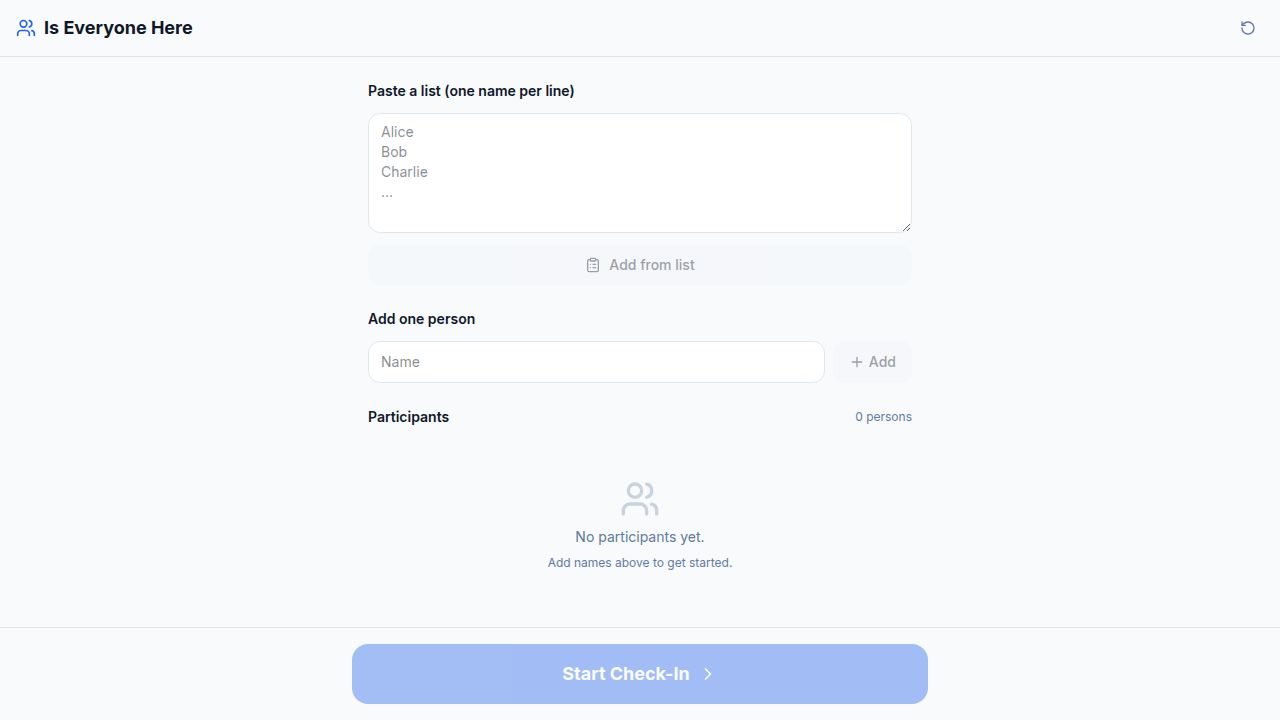
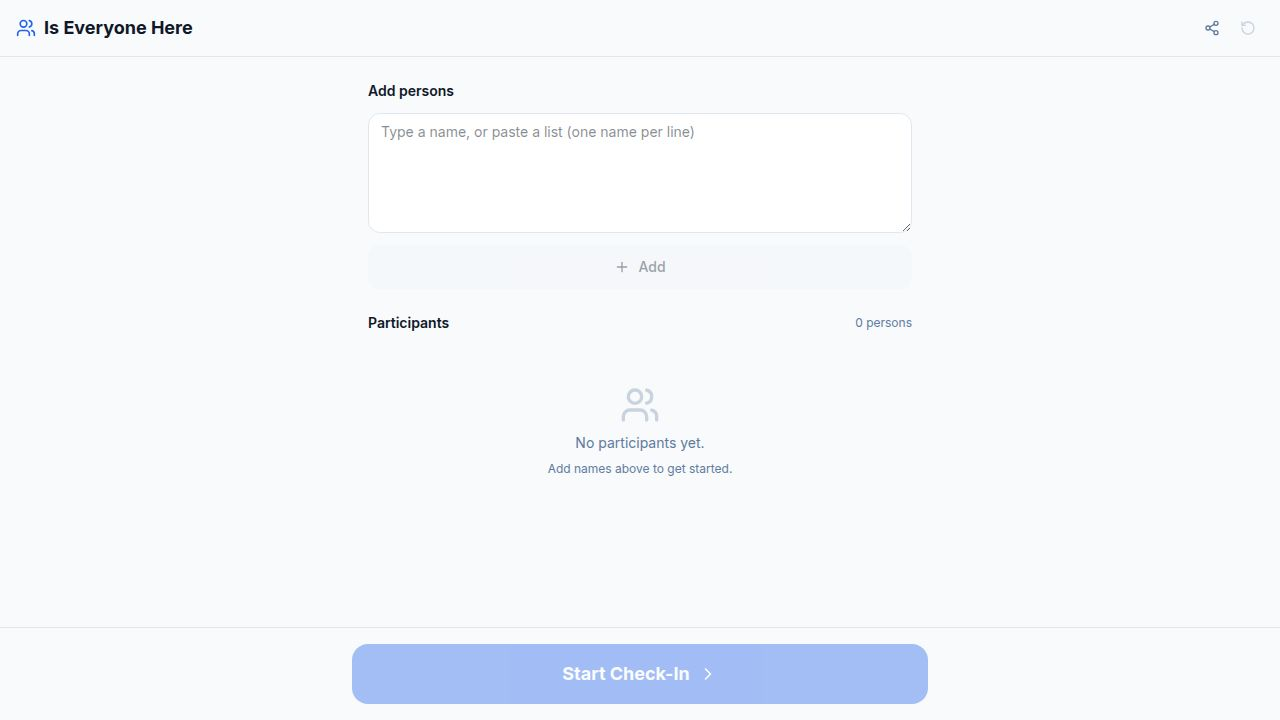
Add share functionality and improve user experience during check-in
Introduce a share button for easy state sharing via URL or native share sheet. Enhance the check-in process by automatically advancing to the checkout view after the last person is marked, and display a non-intrusive message when duplicate names are added.

Replit-Commit-Author: Agent
Replit-Commit-Session-Id: cf08d28a-9c5e-4f8a-a3a1-c976aa2075b8
Replit-Commit-Checkpoint-Type: full_checkpoint
Replit-Commit-Event-Id: dedc5300-f547-4629-b885-a67ef2440dd4
Replit-Commit-Screenshot-Url: https://storage.googleapis.com/screenshot-production-us-central1/a26471ca-6ae7-45f9-a4b1-f9d4ba0b369f/cf08d28a-9c5e-4f8a-a3a1-c976aa2075b8/bTtyVXO
Replit-Helium-Checkpoint-Created: true

diff --git a/artifacts/is-everyone-here/src/pages/CheckinPage.tsx b/artifacts/is-everyone-here/src/pages/CheckinPage.tsx
@@ -1,7 +1,8 @@
-import { CheckCircle2, XCircle, ChevronLeft, ChevronRight, Settings, ArrowRight } from "lucide-react";
+import { CheckCircle2, XCircle, ChevronLeft, ChevronRight, Settings } from "lucide-react";
 import { AppState, PersonStatus } from "@/lib/state";
 import { Translations } from "@/lib/i18n";
 import ResetButton from "@/components/ResetButton";
+import ShareButton from "@/components/ShareButton";
 
 interface Props {
   state: AppState;
@@ -14,12 +15,16 @@ export default function CheckinPage({ state, t, onStateChange }: Props) {
   const current = people[currentIndex];
   const prev = currentIndex > 0 ? people[currentIndex - 1] : null;
   const next = currentIndex < people.length - 1 ? people[currentIndex + 1] : null;
-  const allHandled = people.every((p) => p.status !== "pending");
 
   function markCurrent(status: PersonStatus) {
     const updated = people.map((p, i) =>
       i === currentIndex ? { ...p, status } : p
     );
+    const allNowHandled = updated.every((p) => p.status !== "pending");
+    if (allNowHandled) {
+      onStateChange({ ...state, people: updated, phase: "checkout" });
+      return;
+    }
     const nextIndex =
       currentIndex < people.length - 1 ? currentIndex + 1 : currentIndex;
     onStateChange({ ...state, people: updated, currentIndex: nextIndex });
@@ -30,10 +35,6 @@ export default function CheckinPage({ state, t, onStateChange }: Props) {
     if (index > currentIndex && !currentHandled) return;
     if (index < 0 || index >= people.length) return;
     onStateChange({ ...state, currentIndex: index });
-  }
-
-  function goToCheckout() {
-    onStateChange({ ...state, phase: "checkout" });
   }
 
   function backToSetup() {
@@ -67,11 +68,14 @@ export default function CheckinPage({ state, t, onStateChange }: Props) {
         <span className="text-xs text-muted-foreground font-medium">
           {handledCount} / {people.length}
         </span>
-        <ResetButton
-          t={t}
-          confirmMessage={t.checkin.resetConfirm}
-          onConfirm={handleReset}
-        />
+        <div className="flex items-center gap-1">
+          <ShareButton t={t} />
+          <ResetButton
+            t={t}
+            confirmMessage={t.checkin.resetConfirm}
+            onConfirm={handleReset}
+          />
+        </div>
       </header>
 
       {/* Progress bar */}
@@ -83,13 +87,6 @@ export default function CheckinPage({ state, t, onStateChange }: Props) {
       </div>
 
       <main className="flex-1 flex flex-col items-center justify-center px-4 py-6 gap-6 select-none">
-        {allHandled && (
-          <div className="text-center mb-2">
-            <p className="text-2xl font-bold text-foreground">{t.checkin.allDone}</p>
-            <p className="text-sm text-muted-foreground">{t.checkin.allDoneHint}</p>
-          </div>
-        )}
-
         {/* Previous person */}
         {prev ? (
           <button
@@ -163,18 +160,6 @@ export default function CheckinPage({ state, t, onStateChange }: Props) {
           <div className="h-14 w-full max-w-sm" />
         )}
       </main>
-
-      {/* Go to checkout */}
-      <div className="sticky bottom-0 bg-background border-t border-border px-4 py-4">
-        <button
-          onClick={goToCheckout}
-          disabled={!allHandled}
-          className="w-full max-w-xl mx-auto flex items-center justify-center gap-2 py-4 rounded-xl bg-primary text-primary-foreground font-bold text-lg disabled:opacity-40 active:opacity-80 transition-opacity"
-        >
-          {t.checkin.goToCheckout}
-          <ArrowRight className="w-5 h-5" />
-        </button>
-      </div>
     </div>
   );
 }

diff --git a/artifacts/is-everyone-here/src/pages/SetupPage.tsx b/artifacts/is-everyone-here/src/pages/SetupPage.tsx
@@ -1,8 +1,9 @@
-import { useState } from "react";
+import { useState, useRef } from "react";
 import { Plus, Trash2, Users, ChevronRight } from "lucide-react";
 import { AppState, Person, generateId } from "@/lib/state";
 import { Translations } from "@/lib/i18n";
 import ResetButton from "@/components/ResetButton";
+import ShareButton from "@/components/ShareButton";
 
 interface Props {
   state: AppState;
@@ -13,6 +14,14 @@ interface Props {
 export default function SetupPage({ state, t, onStateChange }: Props) {
   const [inputText, setInputText] = useState("");
   const [error, setError] = useState("");
+  const [dupMessage, setDupMessage] = useState("");
+  const dupTimerRef = useRef<ReturnType<typeof setTimeout> | null>(null);
+
+  function showDup(names: string[]) {
+    if (dupTimerRef.current) clearTimeout(dupTimerRef.current);
+    setDupMessage(`${t.setup.alreadyAdded}: ${names.join(", ")}`);
+    dupTimerRef.current = setTimeout(() => setDupMessage(""), 3000);
+  }
 
   function addPersons() {
     const names = inputText
@@ -25,11 +34,19 @@ export default function SetupPage({ state, t, onStateChange }: Props) {
     }
     setError("");
     const existing = new Set(state.people.map((p) => p.name.toLowerCase()));
+    const dups = names.filter((n) => existing.has(n.toLowerCase()));
     const newPeople: Person[] = names
       .filter((n) => !existing.has(n.toLowerCase()))
       .map((name) => ({ id: generateId(), name, status: "pending" }));
-    onStateChange({ ...state, people: [...state.people, ...newPeople] });
-    setInputText("");
+
+    if (dups.length > 0) showDup(dups);
+    if (newPeople.length > 0) {
+      onStateChange({ ...state, people: [...state.people, ...newPeople] });
+      setInputText("");
+    } else {
+      // All were dups — clear input anyway
+      setInputText("");
+    }
   }
 
   function removePerson(id: string) {
@@ -56,12 +73,15 @@ export default function SetupPage({ state, t, onStateChange }: Props) {
           <Users className="w-5 h-5 text-primary" />
           <h1 className="text-lg font-bold text-foreground">{t.appName}</h1>
         </div>
-        <ResetButton
-          t={t}
-          confirmMessage={t.setup.resetConfirm}
-          onConfirm={handleReset}
-          disabled={state.people.length === 0}
-        />
+        <div className="flex items-center gap-1">
+          <ShareButton t={t} />
+          <ResetButton
+            t={t}
+            confirmMessage={t.setup.resetConfirm}
+            onConfirm={handleReset}
+            disabled={state.people.length === 0}
+          />
+        </div>
       </header>
 
       <main className="flex-1 max-w-xl mx-auto w-full px-4 py-6 flex flex-col gap-6">
@@ -86,6 +106,9 @@ export default function SetupPage({ state, t, onStateChange }: Props) {
             }}
           />
           {error && <p className="text-destructive text-xs">{error}</p>}
+          {dupMessage && (
+            <p className="text-amber-600 dark:text-amber-400 text-xs">{dupMessage}</p>
+          )}
           <button
             onClick={addPersons}
             disabled={!inputText.trim()}

diff --git a/artifacts/is-everyone-here/src/lib/i18n.ts b/artifacts/is-everyone-here/src/lib/i18n.ts
@@ -14,6 +14,7 @@ export interface Translations {
     noPeople: string;
     noPeopleHint: string;
     resetConfirm: string;
+    alreadyAdded: string;
   };
   checkin: {
     title: string;
@@ -51,6 +52,9 @@ export interface Translations {
   common: {
     person: string;
     persons: string;
+    share: string;
+    copied: string;
+    shareText: string;
   };
 }
 
@@ -68,6 +72,7 @@ const en: Translations = {
     noPeople: "No participants yet.",
     noPeopleHint: "Add names above to get started.",
     resetConfirm: "This will clear the entire participants list. This cannot be undone.",
+    alreadyAdded: "Already in the list",
   },
   checkin: {
     title: "Check-In",
@@ -105,6 +110,9 @@ const en: Translations = {
   common: {
     person: "person",
     persons: "persons",
+    share: "Share",
+    copied: "Copied!",
+    shareText: "Check the attendance status here:",
   },
 };
 
@@ -122,6 +130,7 @@ const sv: Translations = {
     noPeople: "Inga deltagare ännu.",
     noPeopleHint: "Lägg till namn ovan för att komma igång.",
     resetConfirm: "Detta raderar hela deltagarlistan. Det går inte att ångra.",
+    alreadyAdded: "Redan i listan",
   },
   checkin: {
     title: "Incheckning",
@@ -159,6 +168,9 @@ const sv: Translations = {
   common: {
     person: "person",
     persons: "personer",
+    share: "Dela",
+    copied: "Kopierat!",
+    shareText: "Se närvaron här:",
   },
 };
 
@@ -176,6 +188,7 @@ const es: Translations = {
     noPeople: "Aún no hay participantes.",
     noPeopleHint: "Agrega nombres arriba para comenzar.",
     resetConfirm: "Esto eliminará toda la lista de participantes. No se puede deshacer.",
+    alreadyAdded: "Ya está en la lista",
   },
   checkin: {
     title: "Registro",
@@ -213,6 +226,9 @@ const es: Translations = {
   common: {
     person: "persona",
     persons: "personas",
+    share: "Compartir",
+    copied: "¡Copiado!",
+    shareText: "Consulta la asistencia aquí:",
   },
 };
 

diff --git a/artifacts/is-everyone-here/src/components/ShareButton.tsx b/artifacts/is-everyone-here/src/components/ShareButton.tsx
@@ -1,0 +1,55 @@
+import { useState } from "react";
+import { Share2, Check } from "lucide-react";
+import { Translations } from "@/lib/i18n";
+
+interface Props {
+  t: Translations;
+}
+
+export default function ShareButton({ t }: Props) {
+  const [copied, setCopied] = useState(false);
+
+  async function handleShare() {
+    const url = window.location.href;
+
+    if (navigator.share) {
+      try {
+        await navigator.share({
+          title: t.appName,
+          text: t.common.shareText,
+          url,
+        });
+        return;
+      } catch {
+        // User cancelled or share failed — fall through to clipboard
+      }
+    }
+
+    try {
+      await navigator.clipboard.writeText(url);
+      setCopied(true);
+      setTimeout(() => setCopied(false), 2000);
+    } catch {
+      // Clipboard not available — do nothing
+    }
+  }
+
+  return (
+    <button
+      onClick={handleShare}
+      className="p-2 rounded-lg text-muted-foreground hover:text-foreground hover:bg-muted transition-colors relative"
+      aria-label={t.common.share}
+    >
+      {copied ? (
+        <Check className="w-4 h-4 text-green-500" />
+      ) : (
+        <Share2 className="w-4 h-4" />
+      )}
+      {copied && (
+        <span className="absolute -bottom-7 right-0 text-xs text-green-600 font-medium whitespace-nowrap bg-background border border-border rounded px-1.5 py-0.5 shadow-sm">
+          {t.common.copied}
+        </span>
+      )}
+    </button>
+  );
+}

diff --git a/artifacts/is-everyone-here/src/pages/CheckoutPage.tsx b/artifacts/is-everyone-here/src/pages/CheckoutPage.tsx
@@ -2,6 +2,7 @@ import { ChevronLeft, CheckCircle2, LogOut, AlertTriangle, RefreshCw } from "luc
 import { AppState } from "@/lib/state";
 import { Translations } from "@/lib/i18n";
 import ResetButton from "@/components/ResetButton";
+import ShareButton from "@/components/ShareButton";
 
 interface Props {
   state: AppState;
@@ -57,12 +58,15 @@ export default function CheckoutPage({ state, t, onStateChange }: Props) {
           {t.checkout.backToCheckin}
         </button>
         <span className="text-sm font-semibold text-foreground">{t.appName}</span>
-        <ResetButton
-          t={t}
-          confirmMessage={t.checkout.resetConfirm}
-          onConfirm={handleReset}
-          disabled={leftPeople.length === 0}
-        />
+        <div className="flex items-center gap-1">
+          <ShareButton t={t} />
+          <ResetButton
+            t={t}
+            confirmMessage={t.checkout.resetConfirm}
+            onConfirm={handleReset}
+            disabled={leftPeople.length === 0}
+          />
+        </div>
       </header>
 
       <main className="flex-1 max-w-xl mx-auto w-full px-4 py-6 flex flex-col gap-6">
